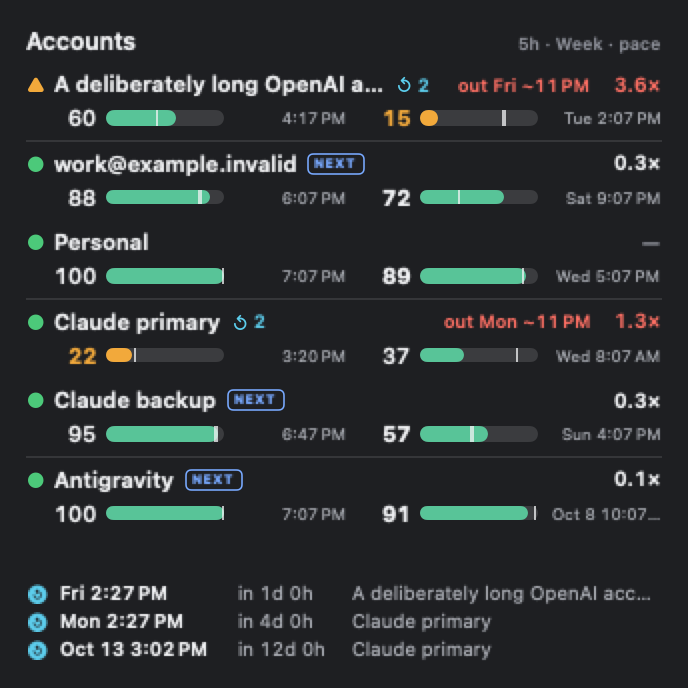
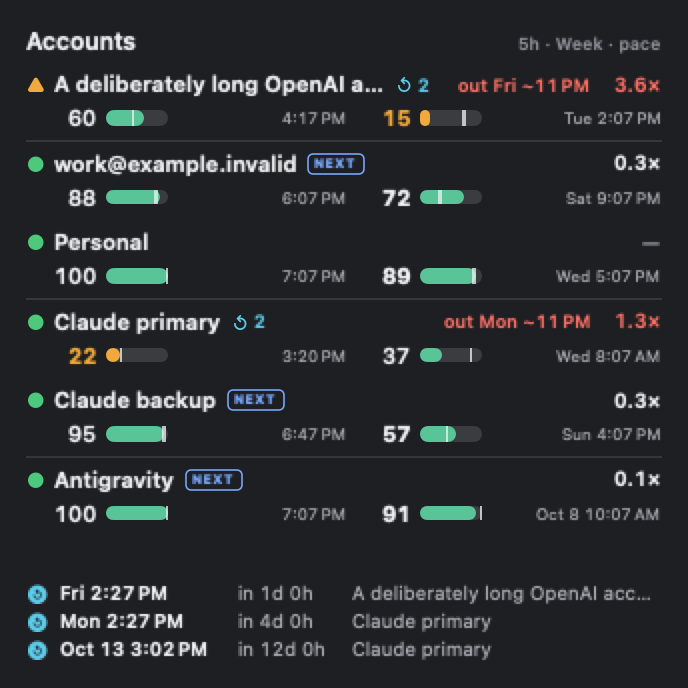
Keep reset minutes visible at compact account widths

diff --git a/Sources/ContextPanelApp/ContextPanelApp.swift b/Sources/ContextPanelApp/ContextPanelApp.swift
@@ -903,22 +903,22 @@ struct SettingsPane: View {
     }
 
     private var removalConfirmation: some View {
-            VStack(alignment: .leading, spacing: 16) {
-                Text(AccountTerms.removeAccountEverywhereTitle).font(.headline)
-                Text(AccountTerms.removalExplanation).fixedSize(horizontal: false, vertical: true)
-                HStack {
-                    Button(AccountTerms.cancel) { pendingRemovalID = nil }.keyboardShortcut(.cancelAction)
-                    Spacer()
-                    Button(AccountTerms.removeAccountEverywhere) {
-                        if let id = pendingRemovalID { model.removeAccount(id, onRemoved: refreshAfterAuthorization) }
-                        pendingRemovalID = nil
-                    }
-                    .buttonStyle(.borderedProminent)
-                    .tint(CPTheme.token(.destructiveFill))
-                    .foregroundStyle(CPTheme.token(.actionText))
+        VStack(alignment: .leading, spacing: 16) {
+            Text(AccountTerms.removeAccountEverywhereTitle).font(.headline)
+            Text(AccountTerms.removalExplanation).fixedSize(horizontal: false, vertical: true)
+            HStack {
+                Button(AccountTerms.cancel) { pendingRemovalID = nil }.keyboardShortcut(.cancelAction)
+                Spacer()
+                Button(AccountTerms.removeAccountEverywhere) {
+                    if let id = pendingRemovalID { model.removeAccount(id, onRemoved: refreshAfterAuthorization) }
+                    pendingRemovalID = nil
                 }
+                .buttonStyle(.borderedProminent)
+                .tint(CPTheme.token(.destructiveFill))
+                .foregroundStyle(CPTheme.token(.actionText))
             }
-            .padding(24).frame(width: 420)
+        }
+        .padding(24).frame(width: 420)
     }
 
     private func nameBinding(_ field: SettingsNameField, saved: String) -> Binding<String> {
@@ -3135,7 +3135,7 @@ struct AccountDeadlinesDashboard: View {
         TimelineView(.periodic(from: .now, by: 1)) { context in
             let overview = model.accountOverview(at: context.date)
             ScrollView {
-                AccountDeadlinesPanel(overview: overview) { id in
+                AccountDeadlinesPanel(overview: overview, now: context.date) { id in
                     if let account = overview.accounts.first(where: { $0.id == id }) {
                         model.navigate(to: .providerAccount(account.metadata.provider, id))
                     }
@@ -5749,7 +5749,7 @@ final class ContextPanelAppModel: ObservableObject {
         let generatedAt = currentSnapshot.generatedAt
         observedBurnRatesTask = Task.detached(priority: .userInitiated) { [weak self] in
             let history = refreshService.loadHistory(
-                query: SnapshotStoreQuery(since: now.addingTimeInterval(-24 * 3_600))
+                query: SnapshotStoreQuery(since: min(now, currentSnapshot.generatedAt).addingTimeInterval(-24 * 3_600))
             )
             guard !Task.isCancelled else { return }
             let rates = MainLimitBurnRateEstimator.observedBurnRates(

diff --git a/Sources/ContextPanelWidgetUI/AccountGlanceWidget.swift b/Sources/ContextPanelWidgetUI/AccountGlanceWidget.swift
@@ -146,7 +146,7 @@ struct AccountGlanceWidget: View {
             }
             Spacer(minLength: 0)
             if showsDeadline, let deadline = overview.nextDeadline {
-                Link(destination: links.deadlines) { bankedLine(deadline, compact: false, total: overview.deadlines.count) }
+                Link(destination: links.deadlines) { bankedLine(deadline, compact: false, total: overview.deadlines.filter { $0.state == .available }.count) }
                     .buttonStyle(.plain)
             } else if overview.accounts.count > rows.count {
                 Link("+\(overview.accounts.count - rows.count) more", destination: links.overview)
@@ -161,7 +161,7 @@ struct AccountGlanceWidget: View {
             Group {
                 Text("5h").frame(width: 44, alignment: .leading)
                 Text(overview.accounts.allSatisfy { $0.longWindow == nil || $0.longWindow?.duration == 7 * 86_400 } ? "Week" : AccountTerms.longWindow).frame(width: 52, alignment: .leading)
-                Text(trailing).frame(width: 70, alignment: .trailing)
+                Text(trailing).frame(width: 98, alignment: .trailing)
             }
             .font(.system(size: 8.5, weight: .semibold)).foregroundStyle(palette.tertiary)
         }
@@ -177,7 +177,7 @@ struct AccountGlanceWidget: View {
             .frame(maxWidth: .infinity, alignment: .leading)
             windowCell(account, window: fiveHour(account), width: 44)
             windowCell(account, window: weekly(account), width: 52)
-            trailingTime(account).frame(width: 70, alignment: .trailing)
+            trailingTime(account).frame(width: 98, alignment: .trailing)
         }
         .frame(height: 17)
         .contentShape(Rectangle())
@@ -303,7 +303,7 @@ struct AccountGlanceWidget: View {
             if let window { GlanceMeter(window: window, now: now, palette: palette, height: 3.5) }
             Text(window.flatMap { AccountTerms.reset($0, now: now) } ?? "")
                 .font(.system(size: 8)).monospacedDigit().foregroundStyle(palette.secondary).lineLimit(1)
-                .frame(width: 58, alignment: .trailing)
+                .frame(width: 86, alignment: .trailing)
         }
         .frame(maxWidth: .infinity)
     }

diff --git a/Sources/ContextPanelSettingsUI/AccountDashboardViews.swift b/Sources/ContextPanelSettingsUI/AccountDashboardViews.swift
@@ -238,12 +238,13 @@ public struct AccountDashboardPanel: View {
                 Text(window.map { AccountNumbers.window($0, sign: false) } ?? AccountTerms.unknown)
                     .font(.system(size: 17, weight: window?.id == account.limitingWindow?.id ? .bold : .medium))
                     .monospacedDigit().foregroundStyle(window.map { palette.textColor(for: $0) } ?? palette.tertiary)
-                Text("%").font(.system(size: 10, weight: .medium)).foregroundStyle(palette.tertiary)
+                if window?.remainingFraction != nil { Text("%").font(.system(size: 10, weight: .medium)).foregroundStyle(palette.tertiary) }
                 Spacer(minLength: 4)
                 Text(window.map { w in
                     (w.duration == 5 * 3_600 || w.duration == 7 * 86_400 ? "" : w.shortLabel + " · ") + (AccountTerms.reset(w, now: now) ?? "")
                 } ?? "")
-                    .font(.system(size: 10.5)).monospacedDigit().foregroundStyle(palette.secondary).lineLimit(1)
+                    .font(.system(size: window?.assumption == nil ? 10.5 : 9.5)).monospacedDigit().foregroundStyle(palette.secondary)
+                    .lineLimit(window?.assumption == nil ? 1 : 2)
             }
             if let window { DashboardMeter(window: window, now: now, palette: palette, height: 5) }
             else { Capsule().fill(palette.track).frame(height: 5) }

diff --git a/Sources/ContextPanelCore/SnapshotRefreshService.swift b/Sources/ContextPanelCore/SnapshotRefreshService.swift
@@ -688,7 +688,7 @@ public struct SnapshotRefreshService: Sendable {
             // even before this Mac has obtained its first usage observation.
             if accountResult.status == .healthy, let companionSyncPublisher {
                 _ = await companionSyncPublisher.publishAll(storedSnapshot: previousStoredSnapshot
-                    ?? StoredUsageSnapshot(savedAt: now, snapshot: UsageSnapshot(generatedAt: now, limits: []), reports: []),
+                    ?? StoredUsageSnapshot(savedAt: now, snapshot: UsageSnapshot(generatedAt: .distantPast, limits: []), reports: []),
                     publishedAt: now)
             }
             RefreshDiagnostics.logRefreshSkippedNoPayload(reportCount: refreshResult.reports.count)

diff --git a/Sources/ContextPanelCore/AccountPace.swift b/Sources/ContextPanelCore/AccountPace.swift
@@ -118,7 +118,9 @@ public enum AccountPaceText {
         hour.locale = locale
         hour.timeZone = timeZone
         guard !calendar.isDate(date, inSameDayAs: now) else { return "~" + date.formatted(hour) }
-        var day = Date.FormatStyle.dateTime.weekday(.abbreviated)
+        let sameWeekday = calendar.component(.weekday, from: date) == calendar.component(.weekday, from: now)
+        var day = !sameWeekday && abs(date.timeIntervalSince(now)) < 7 * 86_400
+            ? Date.FormatStyle.dateTime.weekday(.abbreviated) : Date.FormatStyle.dateTime.month(.abbreviated).day()
         day.locale = locale
         day.timeZone = timeZone
         return date.formatted(day) + " ~" + date.formatted(hour)

diff --git a/Sources/ContextPanelCore/AgentAccountSnapshot.swift b/Sources/ContextPanelCore/AgentAccountSnapshot.swift
@@ -272,7 +272,7 @@ public extension AgentAccountSnapshot {
                 throw AgentAccountSnapshotReadError.unsupportedSchema
             }
             let history = JSONSnapshotStore(rootDirectory: snapshotDirectory).loadHistory(
-                query: SnapshotStoreQuery(since: now.addingTimeInterval(-24 * 3_600), limit: 2_000)
+                query: SnapshotStoreQuery(since: min(now, stored.snapshot.generatedAt).addingTimeInterval(-24 * 3_600), limit: 2_000)
             )
             return Self(configuration: configuration, stored: stored, history: history, now: now)
         } catch let error as AgentAccountSnapshotReadError {

diff --git a/Sources/ContextPanelCompanion/ContextPanelCompanionApp.swift b/Sources/ContextPanelCompanion/ContextPanelCompanionApp.swift
@@ -328,7 +328,7 @@ private struct CompanionRootView: View {
                         let overview = accountOverview(at: context.date)
                         switch route {
                         case .deadlines:
-                            AccountDeadlinesPanel(overview: overview,
+                            AccountDeadlinesPanel(overview: overview, now: context.date,
                                 openAccount: { accountPath.append(.account($0)) })
                         case let .account(id):
                             if let account = overview.accounts.first(where: { $0.id == id }) {

diff --git a/Sources/ContextPanelTV/ContextPanelTVApp.swift b/Sources/ContextPanelTV/ContextPanelTVApp.swift
@@ -1056,7 +1056,7 @@ private struct TVHeaderView: View {
                                 .lineLimit(1)
                         }
 
-                        if presentation.state == .setupNeeded {
+                        if presentation.state == .setupNeeded || presentation.generatedAt == .distantPast {
                             Text(isRefreshing ? "Checking for updates" : "No usage received yet")
                                 .font(.headline)
                                 .foregroundStyle(.secondary)

diff --git a/docs/evidence/722-opus/README.md b/docs/evidence/722-opus/README.md
@@ -154,3 +154,5 @@ Anthropic Claude Opus 5.5 reviewed the integration read-only. Four medium findin
 Additional consistency fixes keep matching email local parts distinct, share Top Shelf timing/state words and Deadlines colors/dates, preserve VoiceOver qualifiers, anchor observed burn to its source snapshot across readers, and hide fallback/assumed burn from agent numeric fields. The native removal sheet uses shared action colors with contrast checks, rather than the OS dialog’s red-on-red presentation. The earlier transport proposal’s exact fields are limitID, unitsPerHour, observedDurationHours and sampleCount; dates remain on matching limits.
 
 The provider-state mark and the window-pressure color intentionally convey different facts: an account may be Available while one window has less than 25% left. Watch/TV minimum bar fills are visual affordances; exact numeric text is authoritative. The estimated small-iPhone overflow finding remains unverified until matching-device acceptance; these headless captures use the documented family dimensions. Unverified multi-Mac pooling and copied-publisher identity remain explicit unanswered Owner questions. No merge, release or physical acceptance is claimed.
+
+The follow-up Anthropic review found no medium-or-higher regressions and confirmed the four fixes. Its remaining history-cutoff drift was corrected by loading history from the source observation time; projection dates now avoid the same-weekday ambiguity too. A suggested setup timestamp change was reverted because it could incorrectly outrank another Mac’s settings. TV treats an absent observation as no usage instead of displaying a fabricated age. Actual minimum-width Mac inspection found a truncated assumed-reset time: its cell now wraps the qualifier, and widget timing columns allow the full local minute. These refinements preserve the chosen layout and do not resolve the pending multi-Mac identity decisions.
